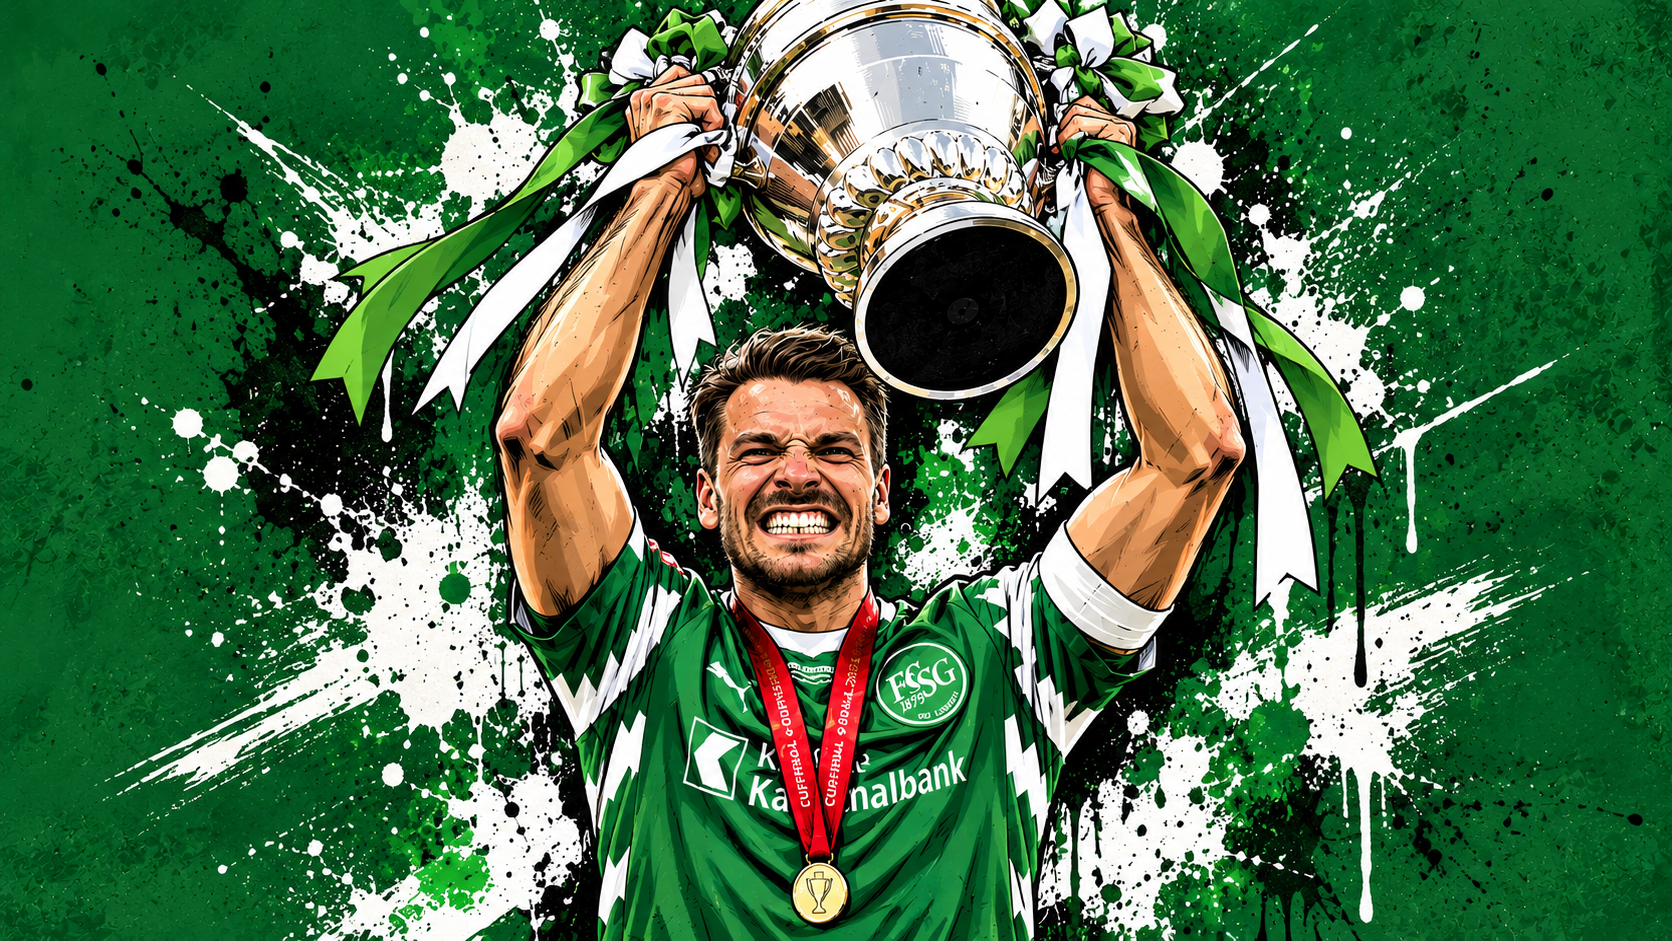
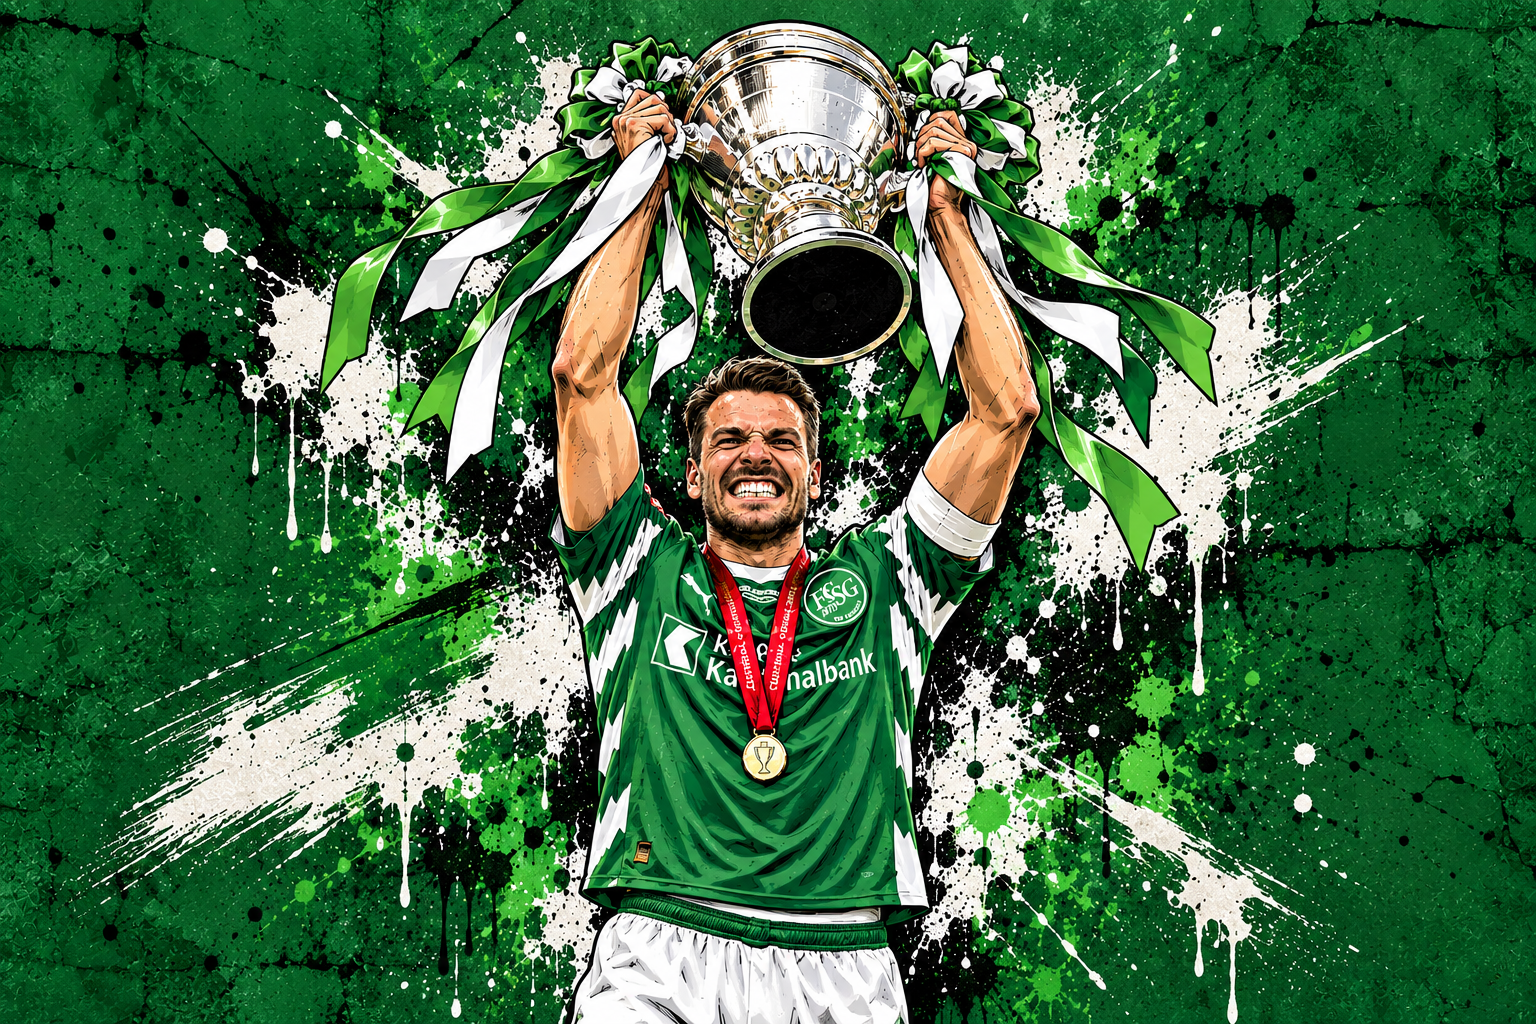
Neues Kopfbild Pokal-Graffiti

diff --git a/index.html b/index.html
@@ -73,17 +73,17 @@
   .addForm input[type=time] { width:120px; }
   #penaltyGrid button { border-radius: 8px; }
   .kopf { display: flex; align-items: center; justify-content: space-between; gap: 1rem; flex-wrap: wrap; margin-bottom: 0.8rem; }
-  .kopf { position: relative; min-height: 360px; border-radius: 16px; overflow: hidden; margin: 0 0 1.4rem; padding: 1.5rem 1.8rem;
+  .kopf { position: relative; min-height: 440px; border-radius: 16px; overflow: hidden; margin: 0 0 1.4rem; padding: 1.5rem 1.8rem;
     align-items: flex-end; border: 3px solid rgba(255,255,255,0.85); box-shadow: 0 12px 30px rgba(0,0,0,0.5);
-    background: linear-gradient(90deg, #0a3a1c 0%, #0a3a1c 30%, rgba(10,58,28,0.6) 42%, rgba(10,58,28,0) 55%),
-                url("fcsg-pokal.jpg") right 30% / 72% auto no-repeat, #0a3a1c; }
+    background: linear-gradient(90deg, #0b4a22 0%, #0b4a22 34%, rgba(11,74,34,0.6) 44%, rgba(11,74,34,0) 56%),
+                url("fcsg-pokal.jpg?v=2") right top / auto 108% no-repeat, #0a3a1c; }
   .kopf-text { max-width: 45%; align-self: center; }
   .kopf h1 { font-size: clamp(2.2rem, 5vw, 3.8rem); margin-bottom: 0.6rem; }
   .kopf .saison { font-size: 1.05rem; text-shadow: 0 2px 6px rgba(0,0,0,0.8); }
   @media (max-width: 700px) {
     .kopf-text { max-width: none; align-self: flex-end; }
     .kopf { min-height: 300px; padding: 1rem; background: linear-gradient(0deg, rgba(6,36,15,0.95) 0%, rgba(6,36,15,0.6) 40%, rgba(6,36,15,0) 70%),
-      url("fcsg-pokal.jpg") 55% 15% / cover no-repeat, var(--gruen); }
+      url("fcsg-pokal.jpg?v=2") 50% 10% / cover no-repeat, var(--gruen); }
   }
   .made-by { text-align: center; margin: 2.5rem 0 1rem; }
   .made-by a { display: inline-flex; align-items: center; gap: 0.6rem; padding: 0.45rem 1rem 0.45rem 0.5rem; background: white; border-radius: 999px;
